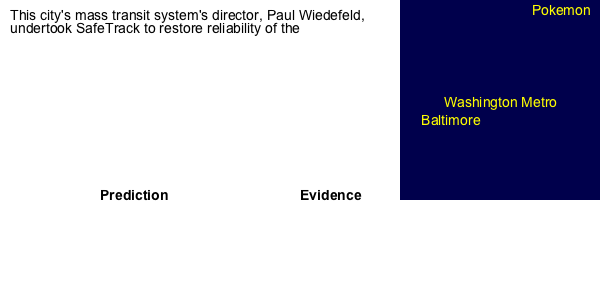
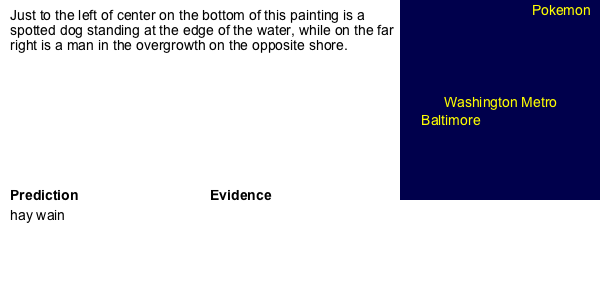
Draw first guess from qantatest.p

diff --git a/visualization.py b/visualization.py
@@ -1,12 +1,13 @@
 import cairocffi as cairo
 import math
+import pickle
 
 WIDTH, HEIGHT = 600, 300
 
 surface = cairo.ImageSurface( cairo.FORMAT_ARGB32, WIDTH, HEIGHT )
 ctx = cairo.Context (surface)
 
-# my methods
+# my methods - idea: make an object that contains ctx as field and has these:
 
 def strip_last_word( string ):
 	words = string.split( ' ' )
@@ -36,15 +37,12 @@ def wrapped_text( text, x, y, width ):
 		lines = make_less( text, text, [], width )
 		for line in lines:
 			ctx.show_text( line )
-			ctx.move_to( x, y + text_height )
+			y += text_height + 2
+			ctx.move_to( x, y )
 
-# input
-question_text = "This city's mass transit system's director, Paul Wiedefeld, undertook SafeTrack to restore reliability of the"
-guesses = [
-	[ "Washington Metro", 34, "stations designed by Harry Weese", "undertook SafeTrack", 0.001, 0.002, 0.300 ],
-	[ "Baltimore", 31, "Paul Wiedefeld", "This city's mass transit", 0.002, 0.004, 0.600 ],
-	[ "Pokemon", 1, "This city's", "restore reliability", 0.601, 0.602, 0.900 ]
-]
+#data
+with open( 'files/qantatest.p', 'rb' ) as infile:
+	guesses = pickle.load( infile )
 
 #data
 points_2d = [
@@ -65,7 +63,7 @@ ctx.set_font_size(14)
 # display question text
 ctx.move_to( 10, 20 )
 ctx.set_source_rgb( 0, 0, 0 )
-wrapped_text( question_text, 10, 20, 400 )
+wrapped_text( guesses[0][0], 10, 20, 400 )
 
 ### 2D plot of possible answers ###
 
@@ -95,10 +93,14 @@ for point in points_2d:
 ### table of guesses and evidence ###
 ctx.select_font_face("Arial", cairo.FONT_SLANT_NORMAL, cairo.FONT_WEIGHT_BOLD)
 ctx.set_source_rgb( 0, 0, 0 )
-ctx.move_to( 100, 200 )
+ctx.move_to( 10, 200 )
 ctx.show_text( "Prediction")
-ctx.move_to( 300, 200 )
+ctx.move_to( 210, 200 )
 ctx.show_text( "Evidence")
+
+ctx.select_font_face("Arial", cairo.FONT_SLANT_NORMAL, cairo.FONT_WEIGHT_NORMAL )
+ctx.move_to( 10, 220 )
+ctx.show_text( guesses[0][1] )
 
 
 # output to PNG
